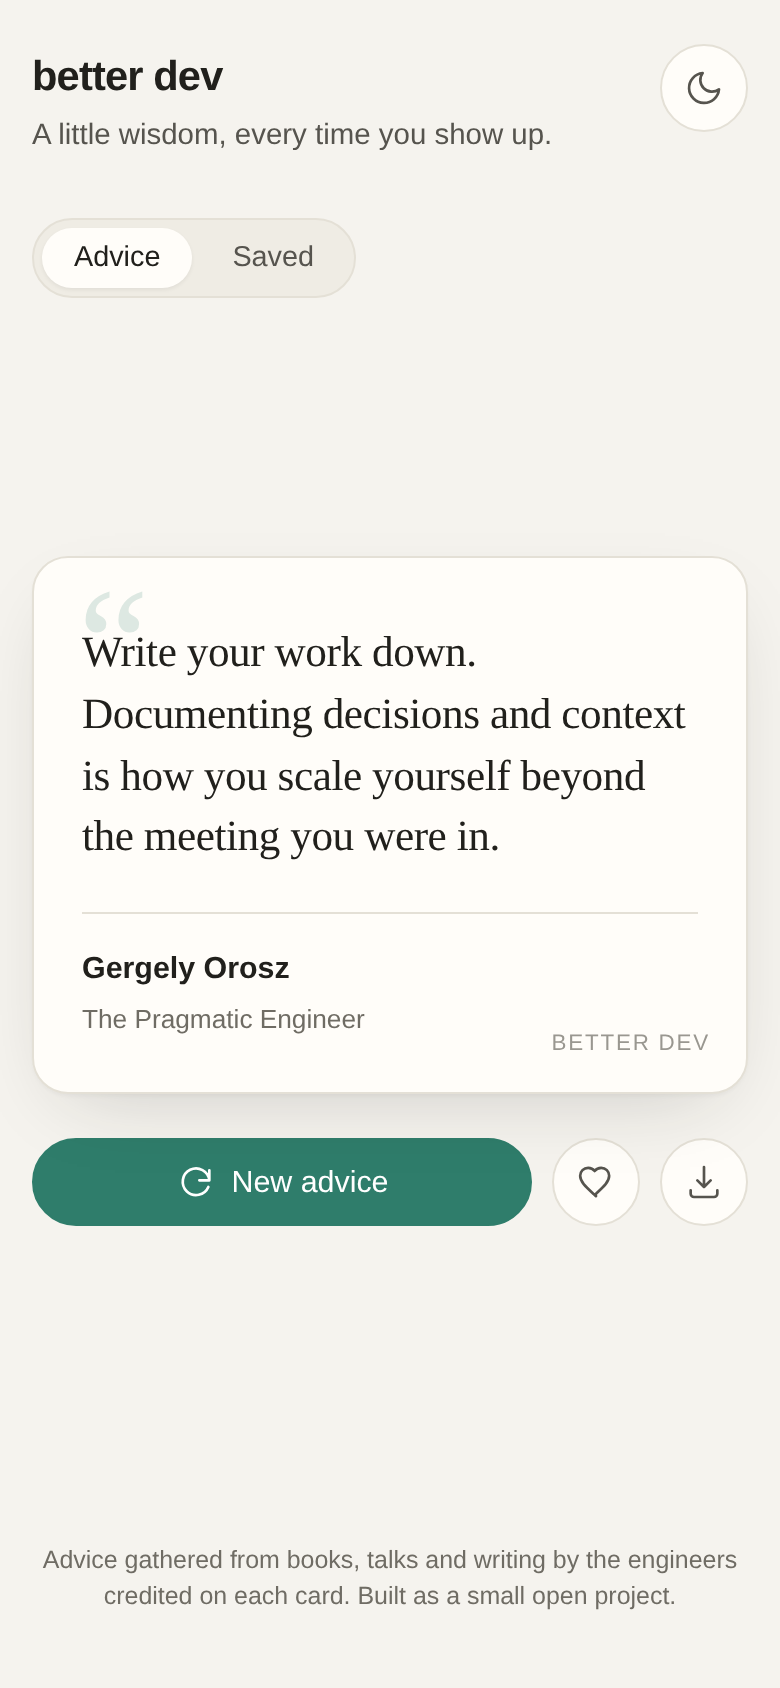
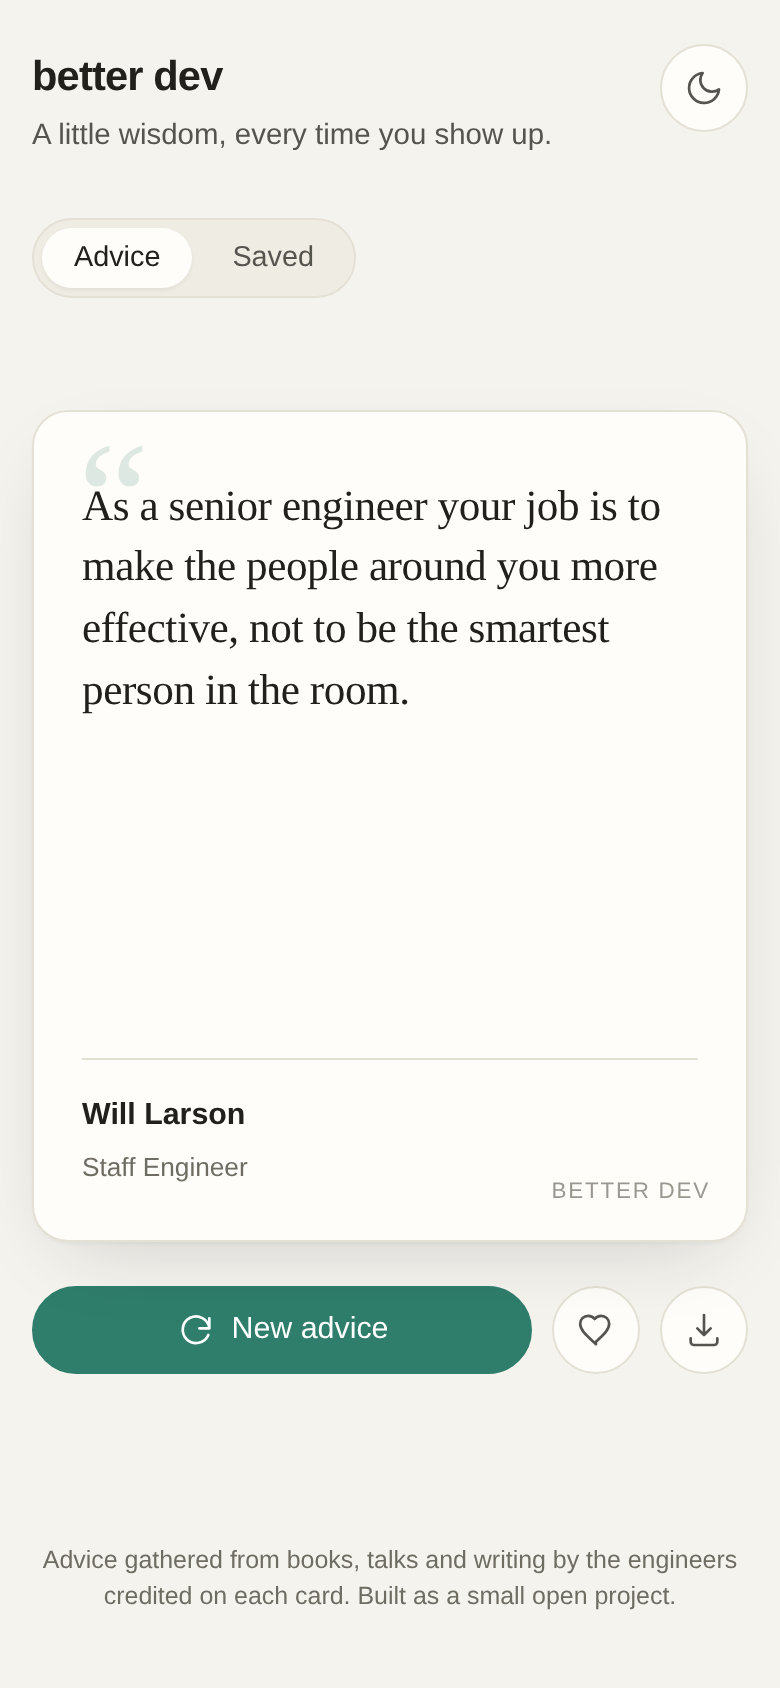
Keep the daily card a stable size so action buttons never shift
Switching advice changed the card height, which moved the New advice button
under the cursor and risked misclicks. The daily card now holds a fixed
footprint (the quote sits at the top, the attribution is pinned to the bottom),
so the buttons below stay put no matter how long or short the advice is.

Sized per breakpoint and verified in a real browser across viewport widths from
320px to 1280px: the action row's position is identical across 140 random
advice at every width (0px movement). Saved cards keep their natural height.

diff --git a/src/App.css b/src/App.css
@@ -82,6 +82,8 @@
 /* Advice card */
 .advice-card {
   position: relative;
+  display: flex;
+  flex-direction: column;
   background: var(--surface);
   border: 1px solid var(--border);
   border-radius: var(--radius);
@@ -89,6 +91,14 @@
   box-shadow: var(--shadow);
   overflow: hidden;
   animation: card-in 0.4s var(--ease) both;
+}
+
+/* The daily card holds a fixed footprint so that switching to a shorter or
+   longer piece of advice never resizes it. That keeps the action buttons
+   below from jumping under the cursor when you tap "New advice". The
+   attribution is pinned to the bottom, with the quote sitting at the top. */
+.daily .advice-card {
+  min-height: 24rem;
 }
 
 @keyframes card-in {
@@ -121,6 +131,12 @@
   line-height: 1.42;
   letter-spacing: -0.01em;
   color: var(--text);
+}
+
+/* On the daily card the quote fills the spare height, which keeps its normal
+   spacing above the attribution while holding the attribution at the bottom. */
+.daily .advice-card__text {
+  flex: 1;
 }
 
 .advice-card__meta {
@@ -342,6 +358,12 @@
 
   .advice-card {
     padding: 32px 24px 26px;
+  }
+
+  /* Narrower width plus a smaller font means advice wraps to more lines, so
+     the daily card needs a taller stable footprint on phones. */
+  .daily .advice-card {
+    min-height: 26rem;
   }
 
   .advice-card__text {